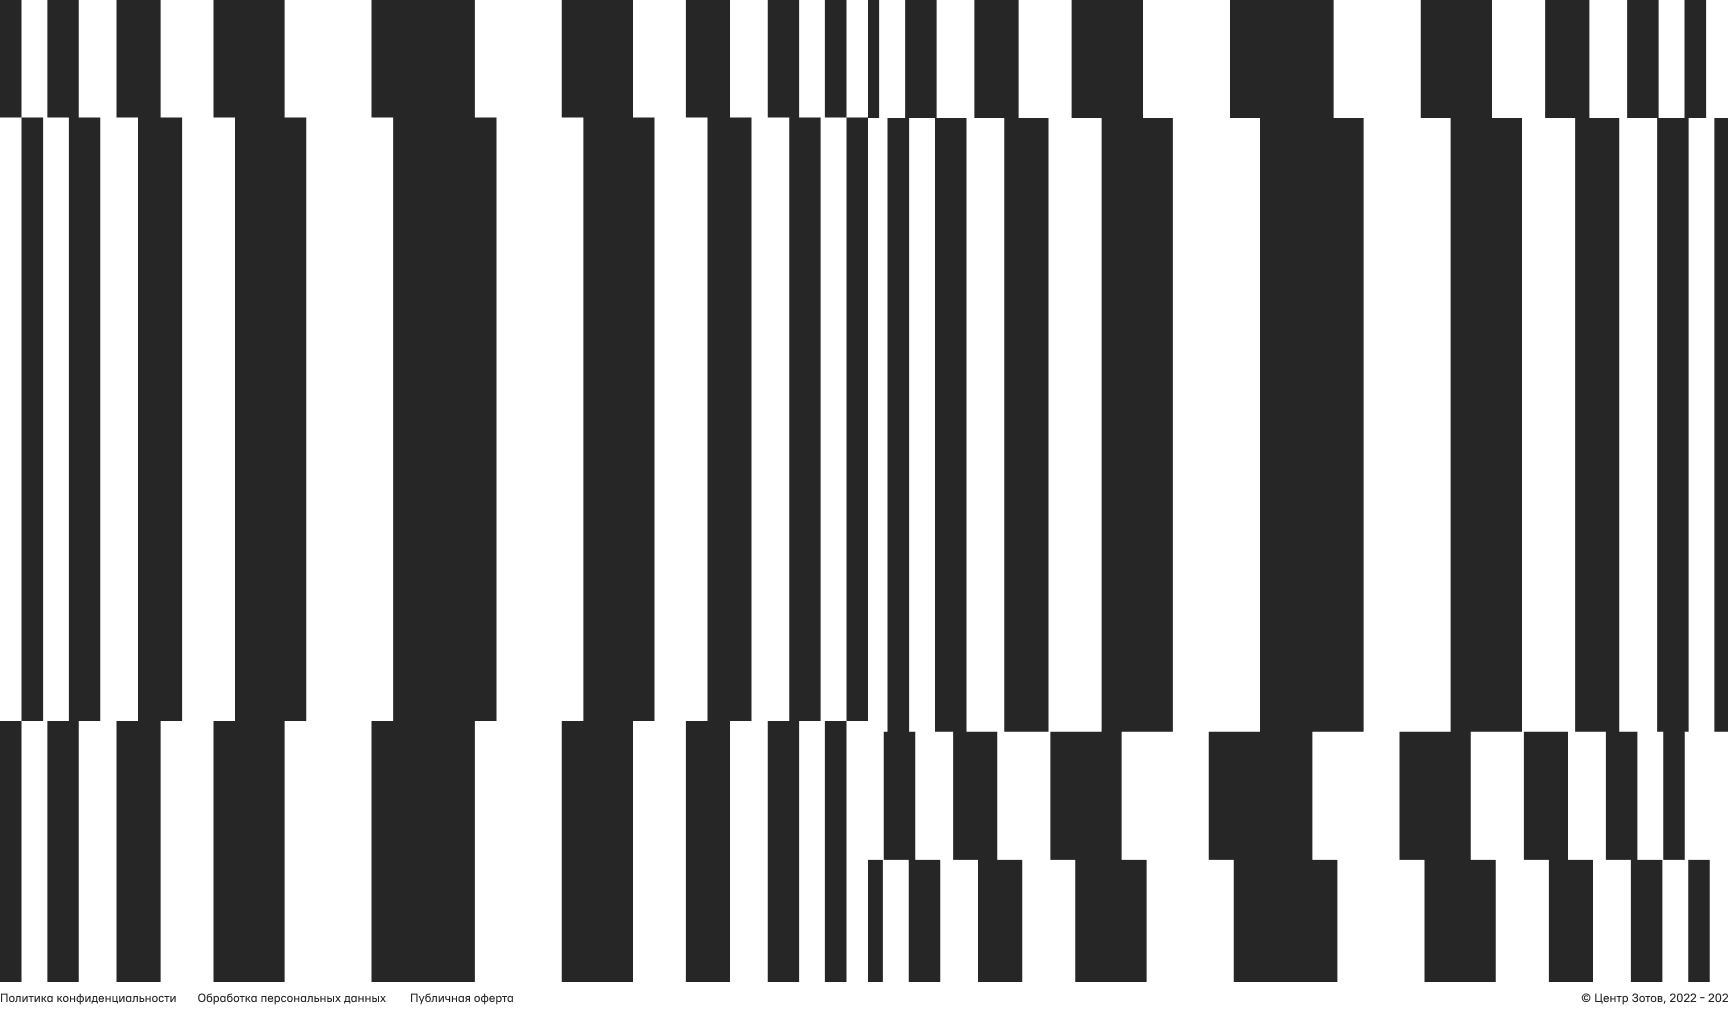
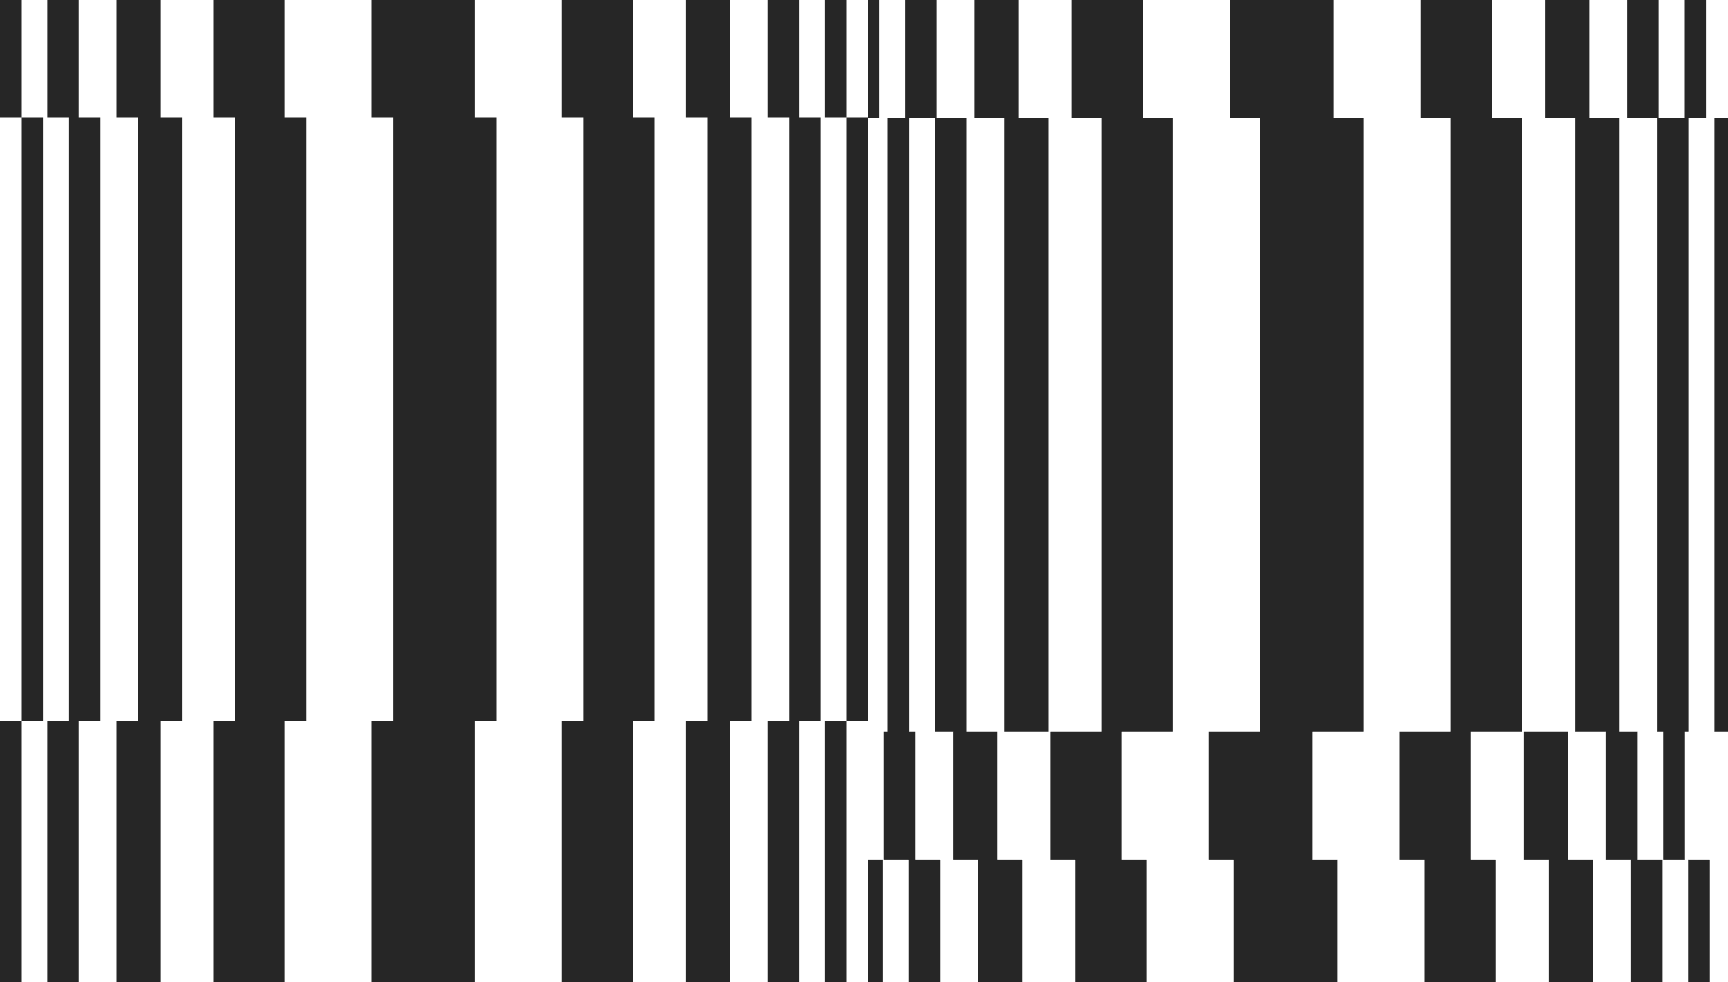
main-page: заголовки секций — Zotov Bold, текст — Golos как в макете; заголовок тем скрыт; футер: баркод + строка ссылок
Claude-Session: https://claude.ai/code/session_01MwUg7GPcY4ZpAFdnnLAEjj

diff --git a/main-page/index.html b/main-page/index.html
@@ -4,6 +4,9 @@
 <meta charset="utf-8">
 <meta name="viewport" content="width=device-width, initial-scale=1">
 <title>ЗОТОВ — Архив</title>
+<link rel="preconnect" href="https://fonts.googleapis.com">
+<link rel="preconnect" href="https://fonts.gstatic.com" crossorigin>
+<link href="https://fonts.googleapis.com/css2?family=Golos+Text:wght@400..900&display=swap" rel="stylesheet">
 <style>
   @font-face{font-family:'Roboto Flex';src:url('assets/fonts/roboto-flex.woff2') format('woff2');font-weight:100 1000;font-display:swap}
   @font-face{font-family:'Zotov Contrast';src:url('assets/fonts/zotov-contrast.woff2') format('woff2');font-weight:400;font-display:swap}
@@ -16,7 +19,7 @@
   }
   *{margin:0;padding:0;box-sizing:border-box}
   html,body{background:#fff}
-  body{font-family:'Roboto Flex',system-ui,sans-serif;color:var(--ink);overflow-x:hidden}
+  body{font-family:'Golos Text','Roboto Flex',system-ui,sans-serif;color:var(--ink);overflow-x:hidden}
   img,svg{display:block}
   a{color:inherit;text-decoration:none}
 
@@ -52,7 +55,8 @@
 
   /* actual themes block */
   #themes{position:absolute;left:8px;top:944px;width:1728px}
-  #themes .t-title{width:856px;height:24px;display:flex;align-items:center;justify-content:space-between;margin-bottom:16px}
+  /* заголовок тем есть в структуре макета, но визуально скрыт (белый в макете) */
+  #themes .t-title{width:856px;height:24px;display:flex;align-items:center;justify-content:space-between;margin-bottom:16px;visibility:hidden}
   #themes .t-title span{font-family:'Zotov Contrast',sans-serif;font-weight:400;font-size:34.3px;line-height:34.3px;margin-top:-10.3px;text-transform:uppercase;color:var(--ink)}
   .circle{border-radius:50%;background:var(--ink);display:flex;align-items:center;justify-content:center;flex:0 0 auto}
   .circle svg{display:block}
@@ -73,7 +77,7 @@
 
   /* макет: TITLE = 144px (80px букв + 64px отступ), сетка начинается сразу под ним */
   .sec-title{display:flex;align-items:flex-start;justify-content:space-between;height:144px}
-  .sec-title .ch{font-family:'Zotov Contrast',sans-serif;font-weight:400;font-size:114.3px;line-height:114.3px;margin-top:-34.3px;text-transform:uppercase;color:var(--ink)}
+  .sec-title .ch{font-family:'Zotov Bold',sans-serif;font-weight:400;font-size:114.3px;line-height:114.3px;margin-top:-34.3px;text-transform:uppercase;color:var(--ink)}
   .sec-title .circle{width:80px;height:80px;margin-left:40px;cursor:pointer}
   .sec-title .circle:hover{background:var(--red)}
 
@@ -141,9 +145,13 @@
   #mapb{margin-top:160px;cursor:pointer}
   #mapb img{width:1720px;height:400px;display:block}
 
-  /* footer: большой баркод + строка ссылок из макета */
+  /* footer: большой баркод + строка ссылок */
   #foot{margin-top:160px}
   #foot img{width:1728px;height:auto;display:block}
+  #foot .flinks{display:flex;align-items:center;padding:12px 0 4px;font-size:13px;line-height:16px;font-weight:500}
+  #foot .flinks a{margin-right:32px}
+  #foot .flinks a:hover{color:var(--red)}
+  #foot .flinks .cop{margin-left:auto;margin-right:0}
 </style>
 </head>
 <body>
@@ -311,7 +319,15 @@
       <p>Географический слой архива: здания, города и адреса, связанные с материалами, событиями и людьми. Существующие и давно утраченные&nbsp;— на&nbsp;одной карте.</p>
     </section>
 
-    <div id="foot"><img src="assets/union.svg" alt=""></div>
+    <div id="foot">
+      <img src="assets/footer.png" alt="">
+      <div class="flinks">
+        <a href="#">Политика конфиденциальности</a>
+        <a href="#">Обработка персональных данных</a>
+        <a href="#">Публичная оферта</a>
+        <a href="#" class="cop">© Центр Зотов, 2022–2026</a>
+      </div>
+    </div>
   </div>
 </div>
 
